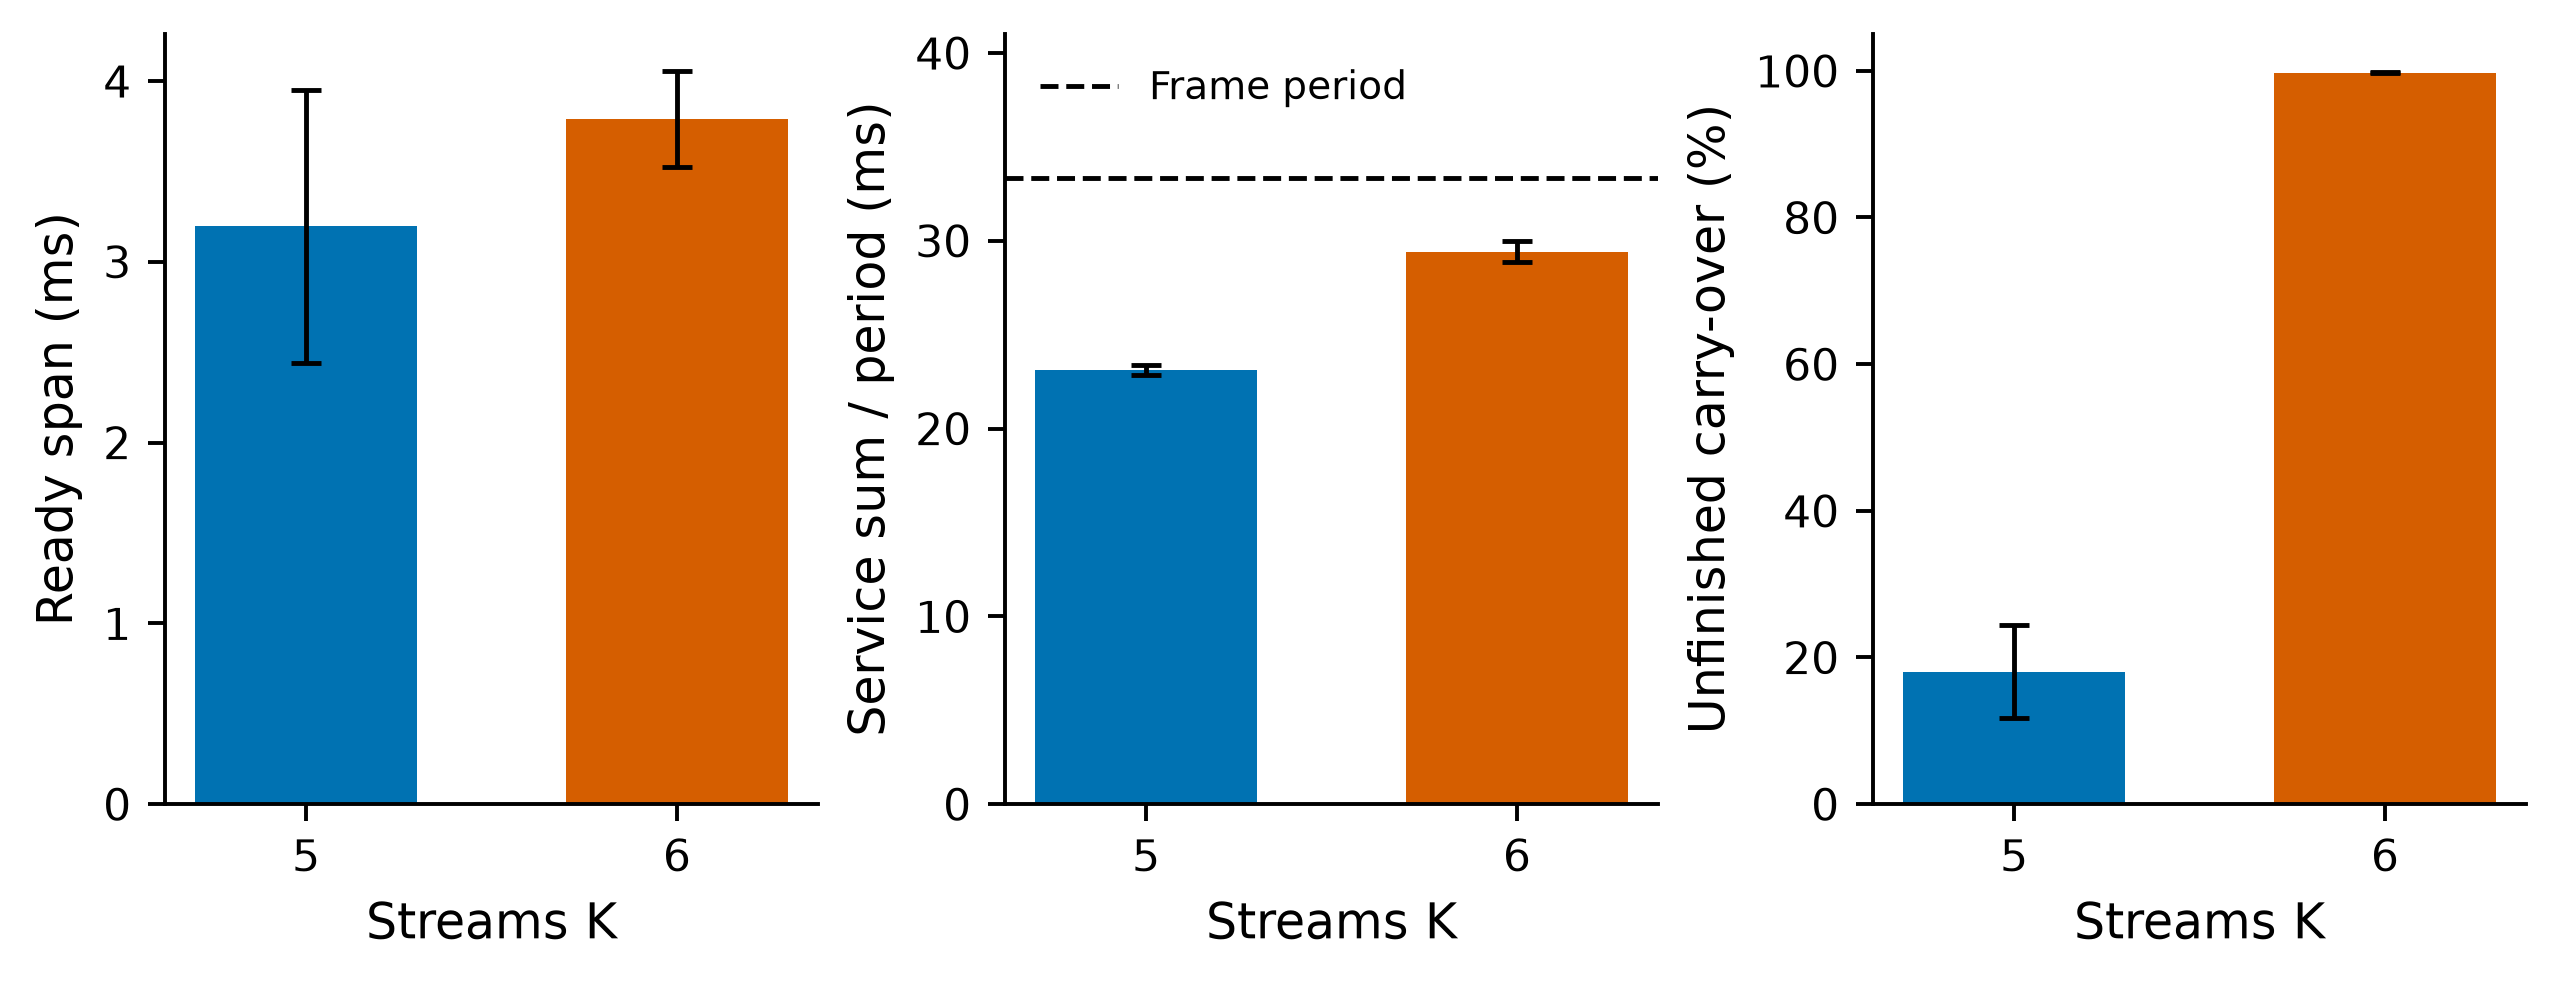
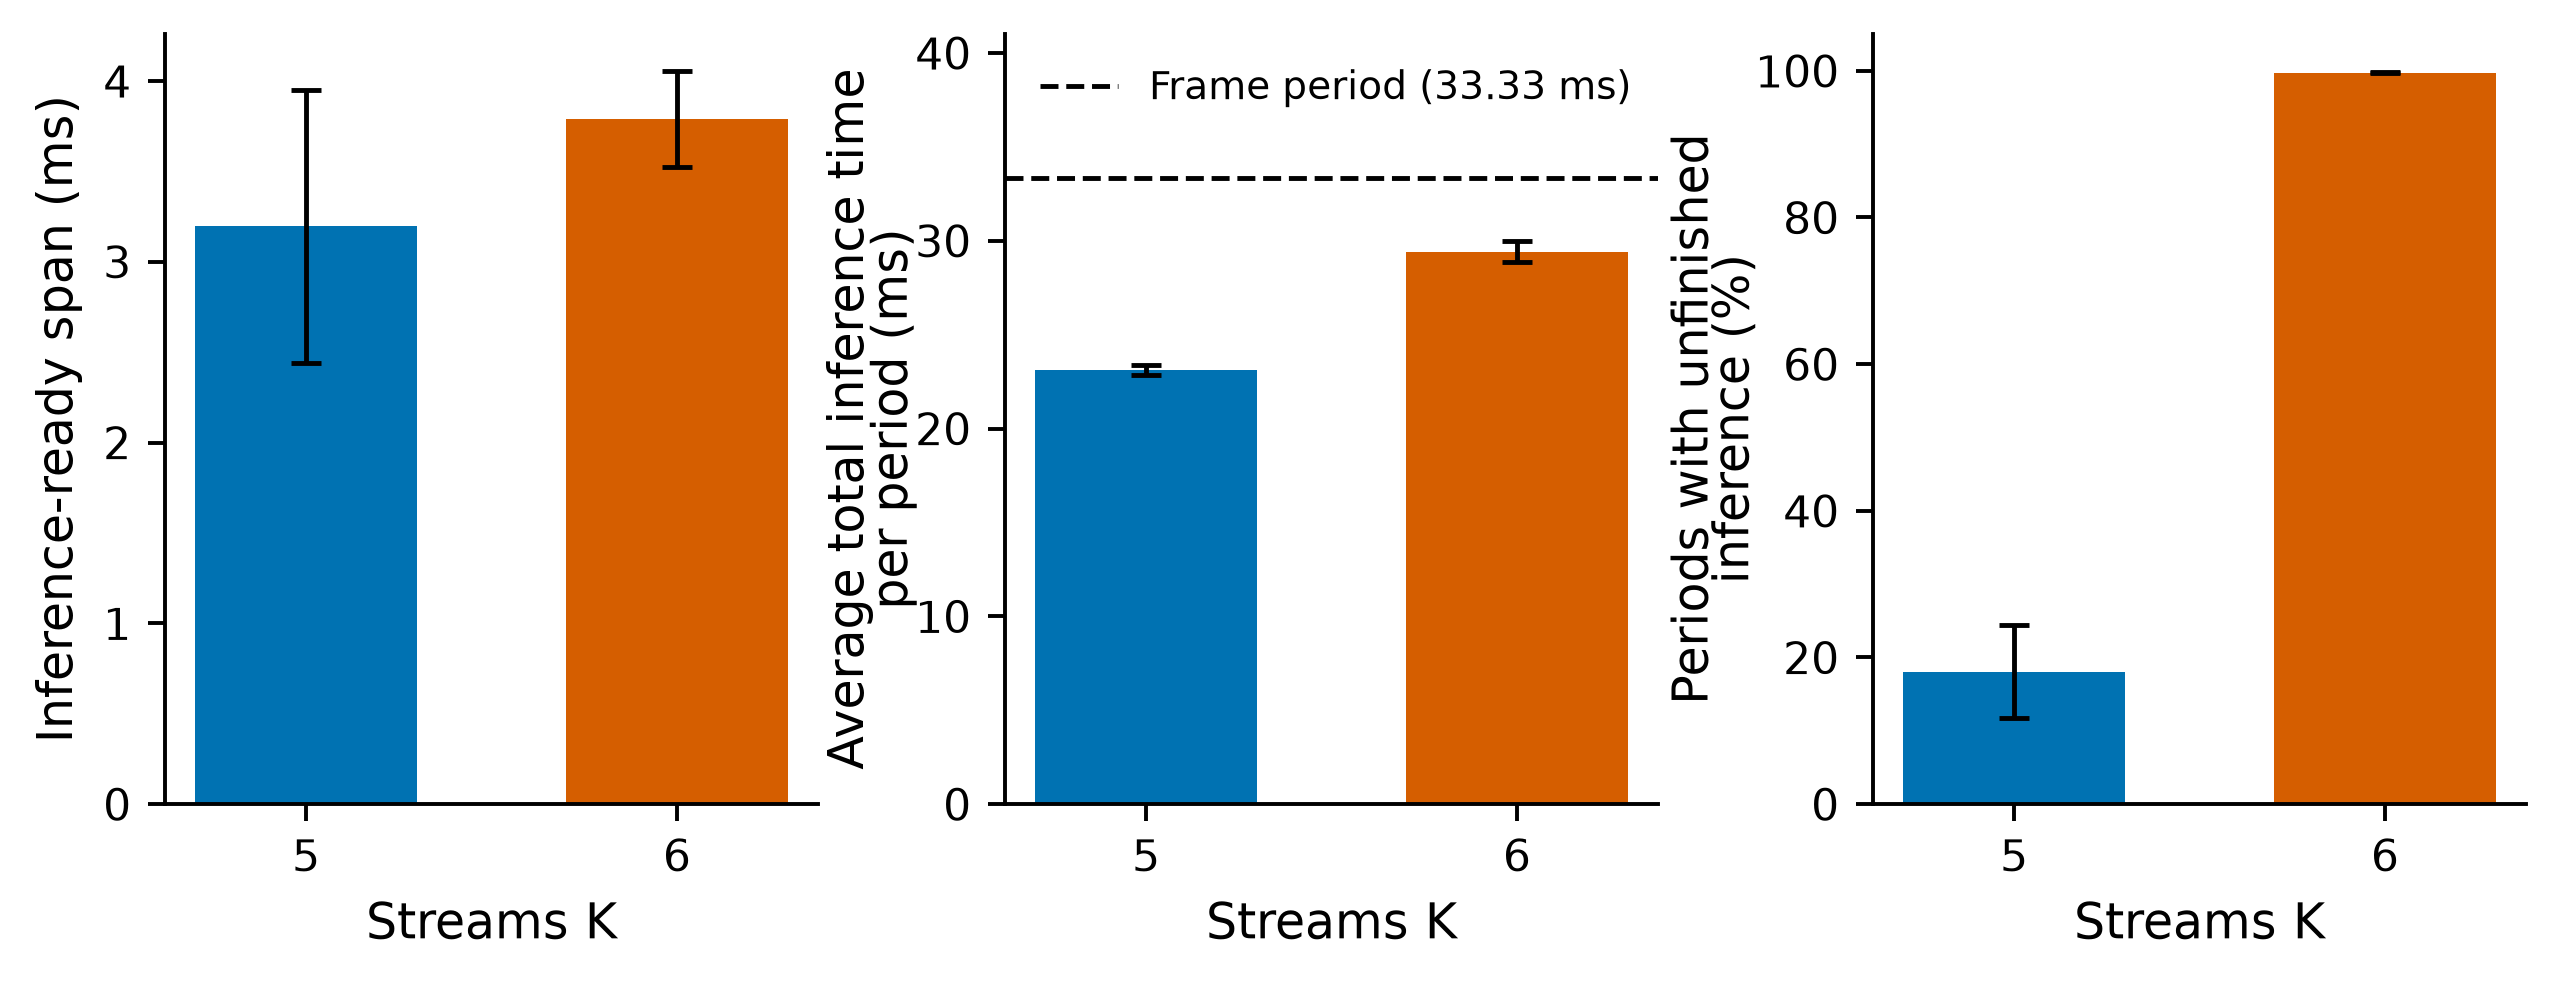
Clarify Figure 3 axis and legend labels

diff --git a/results/local_latency_breakdown/analysis/temporal_queue/characterize_temporal_queue.py b/results/local_latency_breakdown/analysis/temporal_queue/characterize_temporal_queue.py
@@ -358,9 +358,9 @@ def figures():
         'xtick.labelsize':9,'ytick.labelsize':9,'legend.fontsize':8.5,
         'axes.spines.top':False,'axes.spines.right':False,'axes.grid':False,'savefig.dpi':350})
     blue,orange='#0072B2','#D55E00'
-    def save(fig,name):
+    def save(fig,name,*,bbox_inches='tight'):
         p=FIG/name;assert not p.exists(),p
-        fig.savefig(p,dpi=350,bbox_inches='tight',facecolor='white');plt.close(fig)
+        fig.savefig(p,dpi=350,bbox_inches=bbox_inches,facecolor='white');plt.close(fig)
     def formal_values(metric):
         return np.array([[float(r[metric]) for r in d['run_summary'] if r['K']==k] for k in range(1,8)])
     ks=np.arange(1,8)
@@ -400,7 +400,18 @@ def figures():
     axes[1].axhline(1000/30,color='black',ls='--',lw=1,label='Frame period')
     axes[1].legend(loc='upper left',frameon=False,fontsize=8);axes[1].set_ylim(0,41)
     axes[2].set_ylim(0,105)
-    save(fig,'figure_3_k5_k6_temporal_queue.png')
+    # Preserve the existing subplot geometry and export bounds before changing text.
+    fig.canvas.draw()
+    fig.set_dpi(350)
+    fig.canvas.draw()
+    export_bbox=fig.get_tightbbox(fig.canvas.get_renderer()).padded(plt.rcParams['savefig.pad_inches'])
+    fig.set_layout_engine('none')
+    axes[0].set_ylabel('Inference-ready span (ms)')
+    axes[1].set_ylabel('Average total inference time\nper period (ms)',labelpad=0,linespacing=0.9)
+    axes[2].set_ylabel('Periods with unfinished\ninference (%)',labelpad=0,linespacing=0.9)
+    axes[1].lines[-1].set_label('Frame period (33.33 ms)')
+    axes[1].get_legend().get_texts()[0].set_text('Frame period (33.33 ms)')
+    save(fig,'figure_3_k5_k6_temporal_queue.png',bbox_inches=export_bbox)
     print('Three 350-dpi PNGs written; aggregate bars/lines and sample SD only; no PDF generated.')
 
 def validate():
